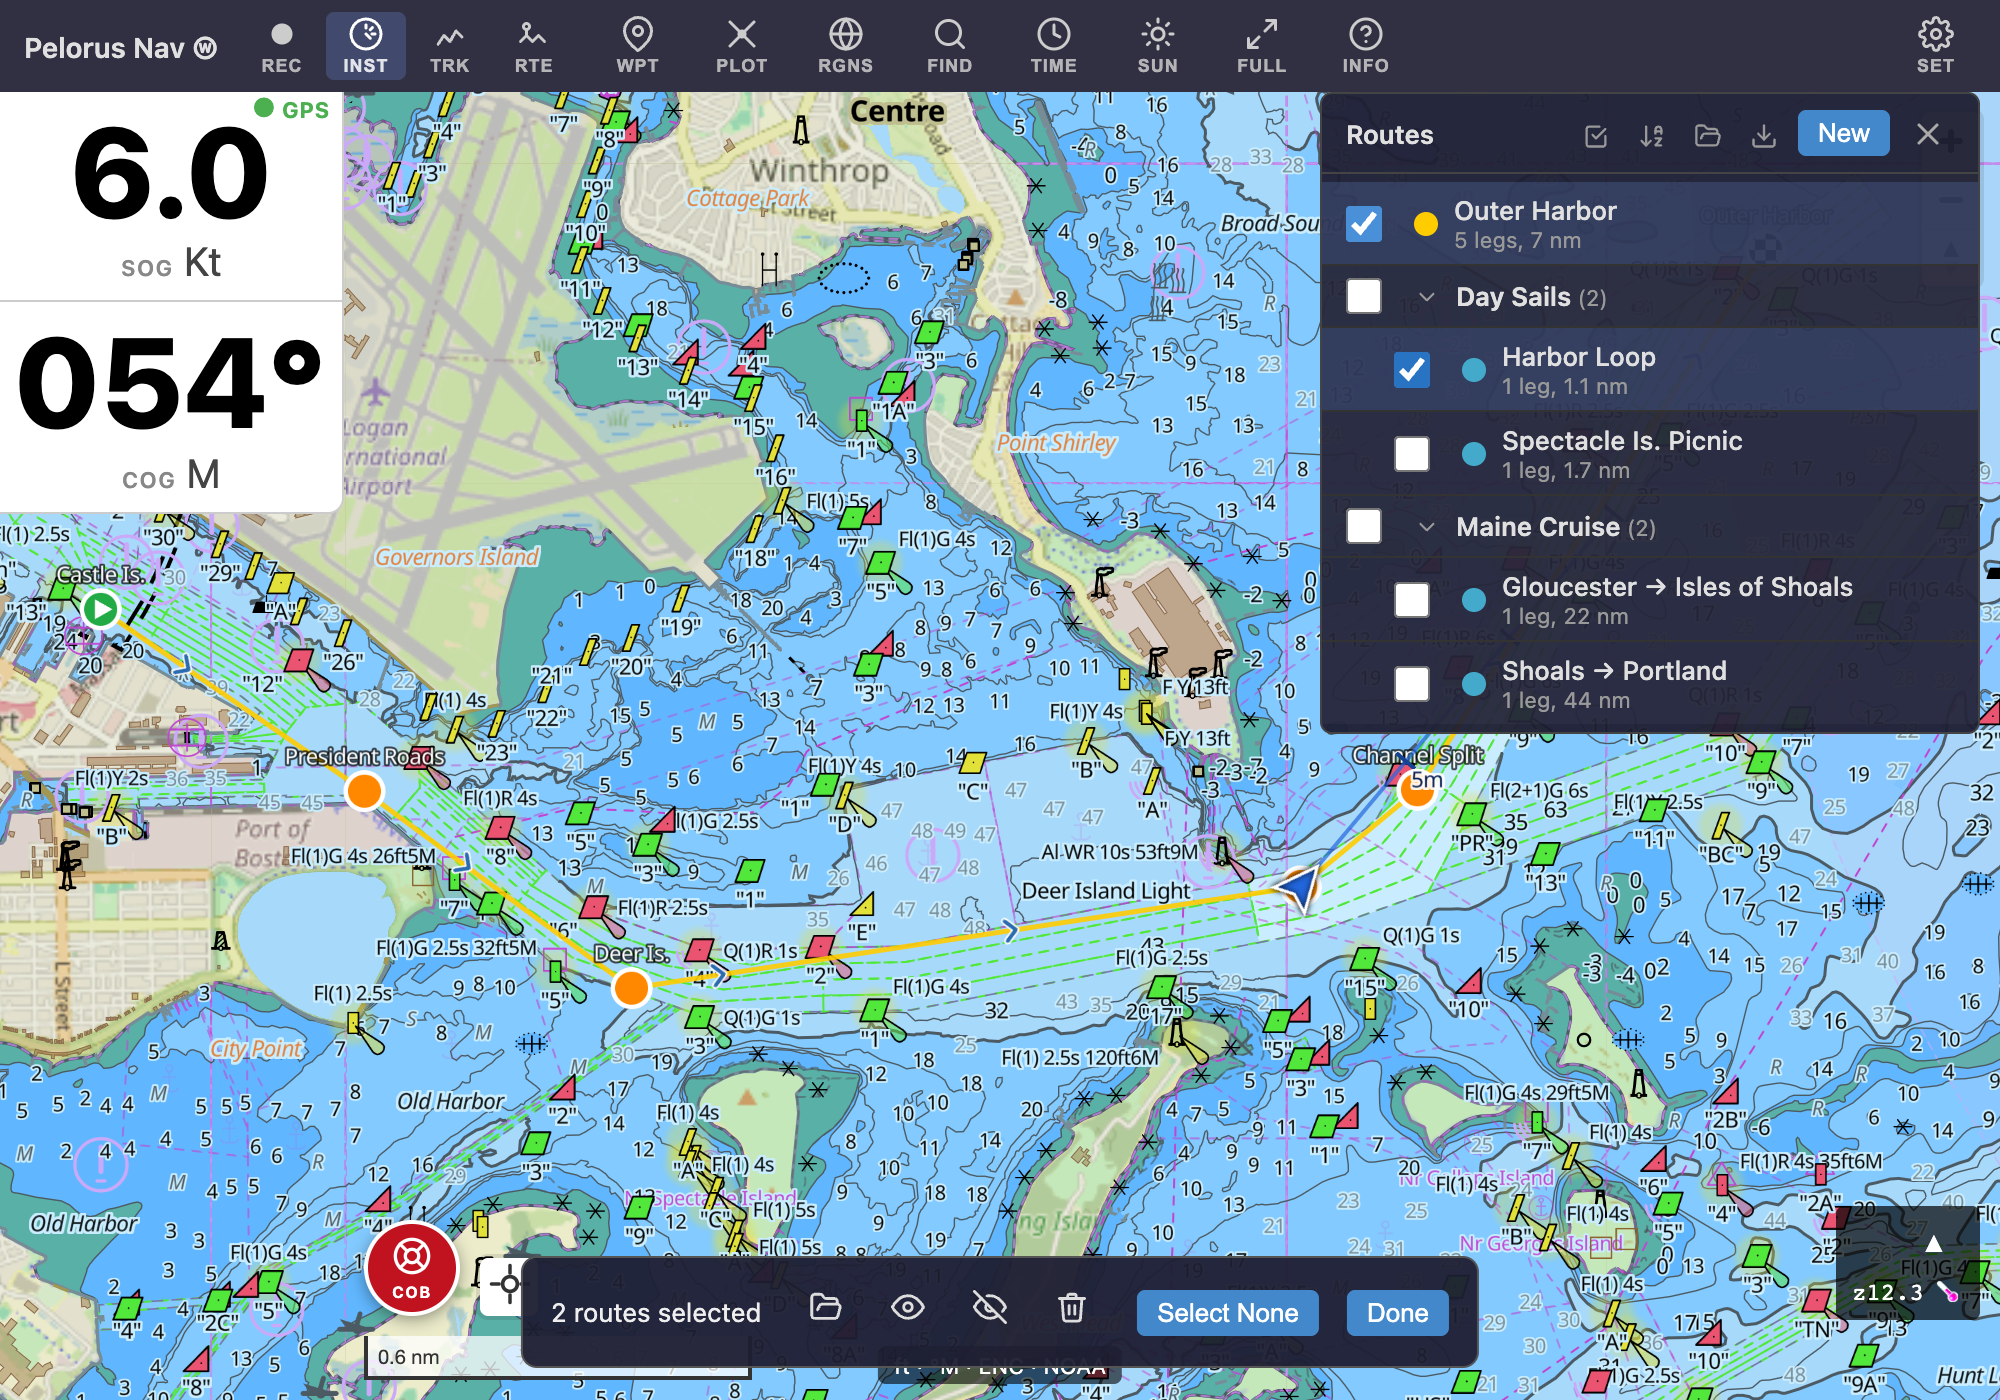
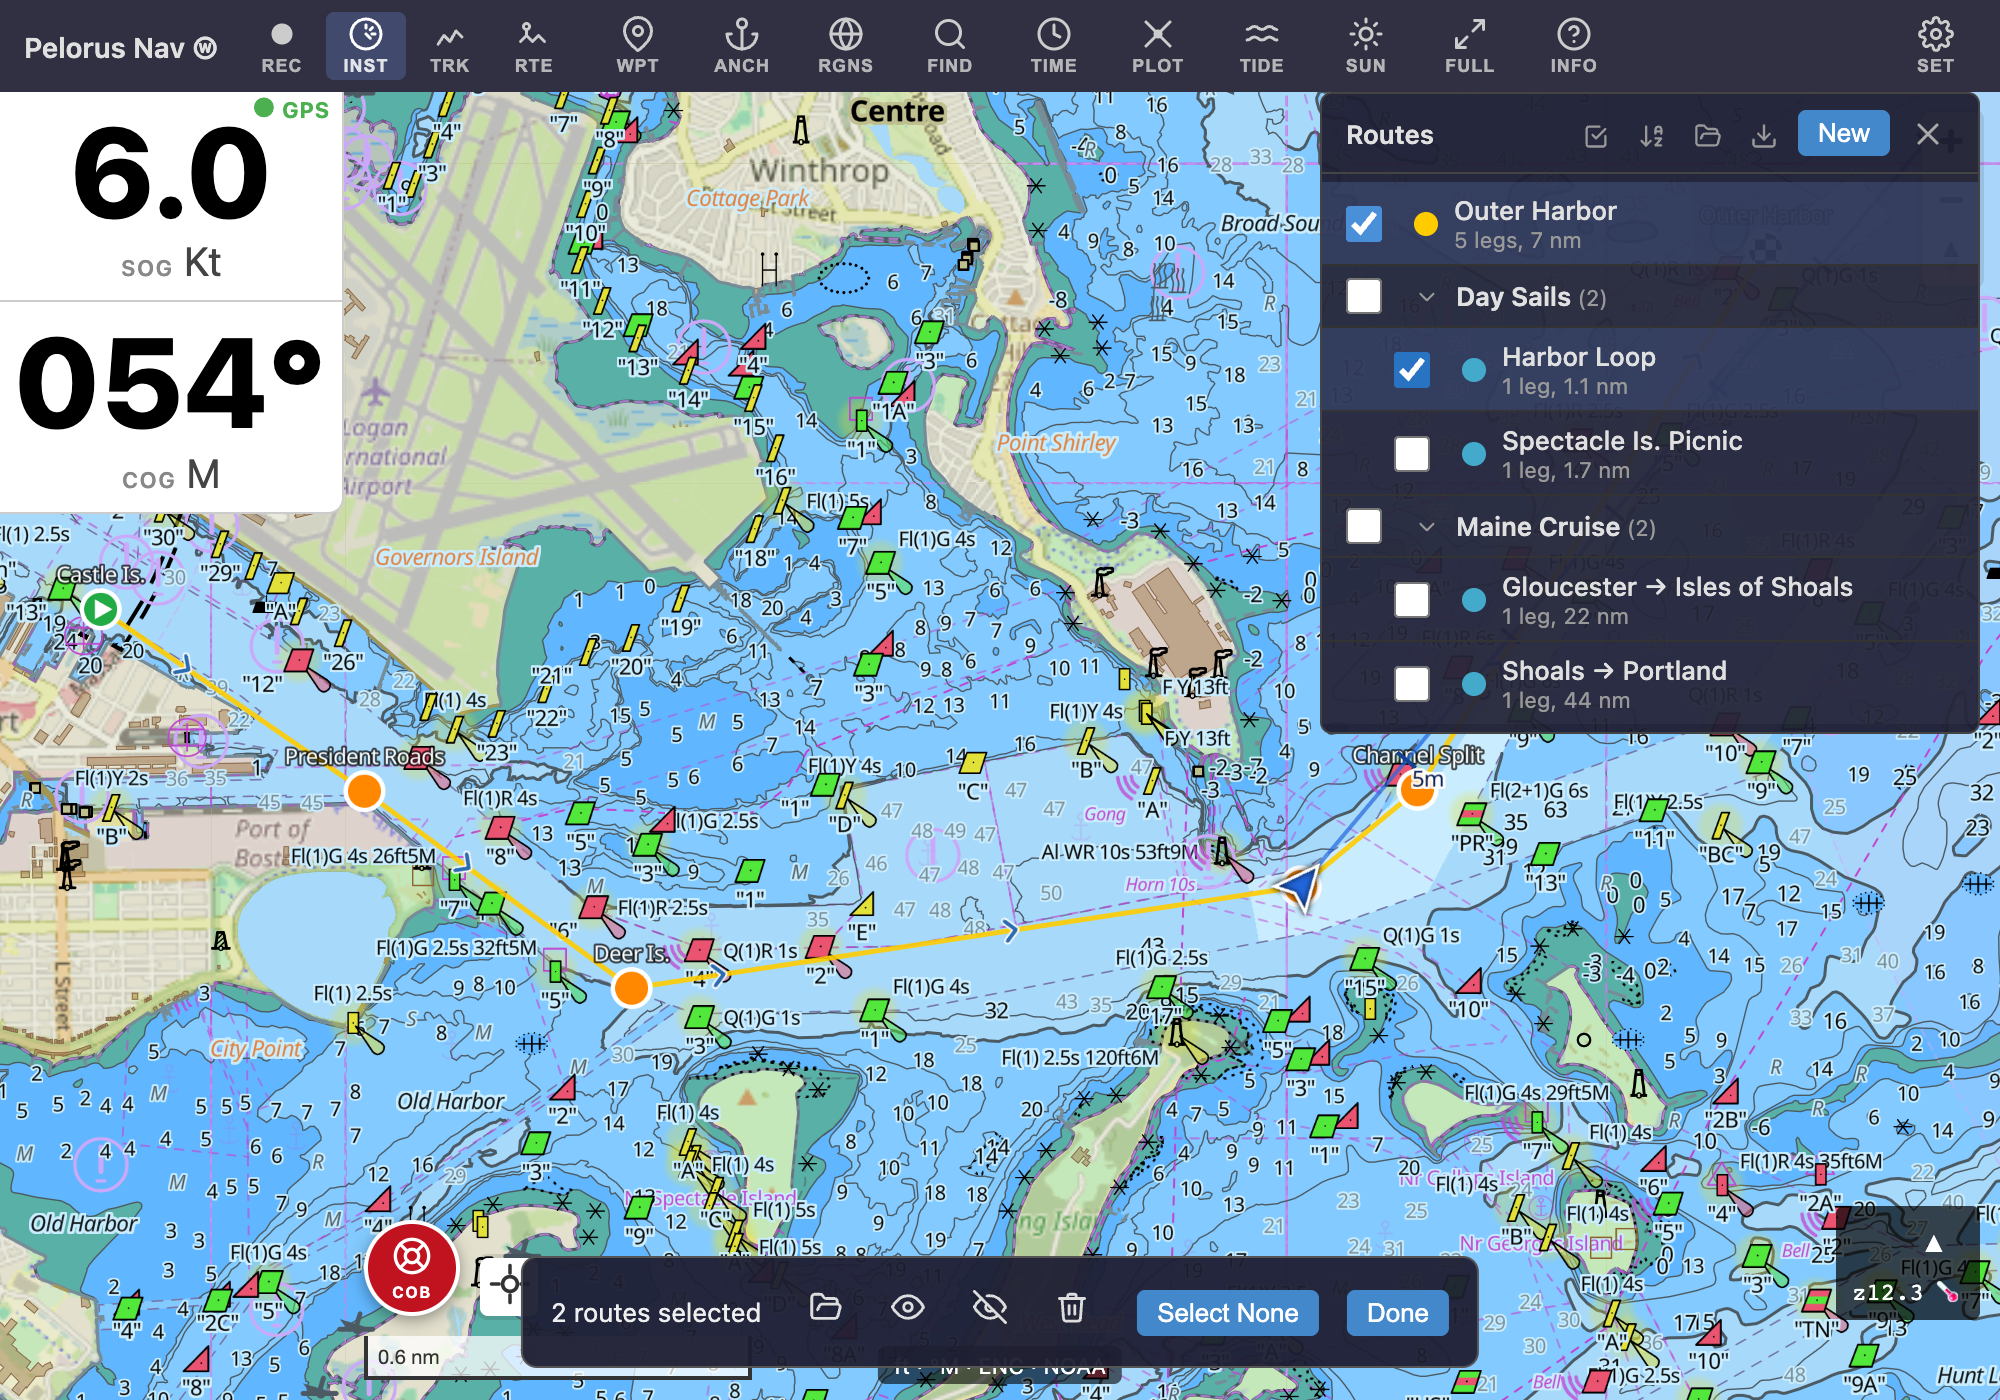
fix(ui): keep every bottom sheet and the top bar's last button clear of the nav bar
Checked on an Android 16 emulator with 3-button navigation, portrait
and landscape. The feature-info card's phone rule (bottom: 0) put its
prev/next footer under the bar; the track viewer, the short-screen
settings panel, the Sun popup and the collapsed menu dropdown had the
same gap. In landscape the top bar's gear sat under the side bar: the
overflow logic judged the row to fit by scrollWidth, which omits the
bar's right padding once content overflows, so a row ending exactly at
the edge passed. It now measures the rightmost laid-out button against
the bar's content box. Guide screenshots regenerated for the top-bar
order change.

diff --git a/src/ui/topbar-overflow.ts b/src/ui/topbar-overflow.ts
@@ -47,7 +47,7 @@ export function relayoutTopbar(
   hooks: TopbarOverflowHooks = {},
 ): void {
   const { topBar, actions, menu, hamburger } = els;
-  const fits = hooks.fits ?? (() => topBar.scrollWidth <= topBar.clientWidth);
+  const fits = hooks.fits ?? (() => rowFitsWithinPadding(topBar));
   // Key off the CSS breakpoint directly, not the hamburger's display — this
   // function now controls that display, so reading it back would feed on
   // itself.
@@ -157,4 +157,31 @@ export function initTopbarOverflow(
   });
 
   relayoutTopbar(els, promoted, hooks);
+}
+
+/**
+ * Whether the bar's visible row ends inside its right padding. scrollWidth
+ * is not enough: it omits the right padding once content overflows, so a
+ * row ending exactly at the bar's edge — the edge that a side navigation
+ * bar covers in landscape, which is what the padding keeps clear — passed
+ * as fitting. Measures the rightmost laid-out descendant instead; the menu
+ * is `display: contents` inline, so its children are what have boxes.
+ */
+function rowFitsWithinPadding(topBar: HTMLElement): boolean {
+  const bar = topBar.getBoundingClientRect();
+  const limit =
+    bar.right -
+    (Number.parseFloat(getComputedStyle(topBar).paddingRight) || 0) +
+    0.5;
+  let rightmost = bar.left;
+  const visit = (el: HTMLElement) => {
+    if (getComputedStyle(el).display === "contents") {
+      for (const child of el.children) visit(child as HTMLElement);
+      return;
+    }
+    const rect = el.getBoundingClientRect();
+    if (rect.width > 0) rightmost = Math.max(rightmost, rect.right);
+  };
+  for (const child of topBar.children) visit(child as HTMLElement);
+  return rightmost <= limit && topBar.scrollWidth <= topBar.clientWidth;
 }

diff --git a/src/style.css b/src/style.css
@@ -570,7 +570,7 @@ body {
 .sun-popup {
   position: fixed;
   top: calc(var(--topbar-bottom) + 6px);
-  right: 8px;
+  right: calc(8px + var(--safe-right));
   background: rgba(30, 30, 50, 0.95);
   border: 1px solid #555;
   border-radius: 6px;
@@ -2866,7 +2866,7 @@ body {
 @media (max-width: 480px) {
   .track-viewer-panel {
     width: calc(100vw - 12px);
-    bottom: 6px;
+    bottom: calc(6px + var(--safe-bottom));
     padding: 8px 10px;
     gap: 6px;
   }
@@ -2893,7 +2893,7 @@ body {
    the chart is already a scrubber — and everything tightens up. */
 @media (orientation: landscape) and (max-height: 500px) {
   .track-viewer-panel {
-    bottom: 6px;
+    bottom: calc(6px + var(--safe-bottom));
     padding: 6px 10px;
     gap: 4px;
   }
@@ -3885,7 +3885,7 @@ body {
   .feature-info-panel {
     width: 100%;
     max-width: 100%;
-    bottom: 0;
+    bottom: var(--safe-bottom);
     border-radius: 8px 8px 0 0;
   }
 }
@@ -4013,7 +4013,7 @@ body {
   display: none;
   position: absolute;
   top: 100%;
-  right: 0;
+  right: var(--safe-right);
   width: 220px;
   flex-direction: column;
   background: rgba(26, 26, 46, 0.95);
@@ -4104,7 +4104,7 @@ body {
 /* ── Landscape small screens ─────────────────────────────────────── */
 @media (max-height: 500px) {
   .settings-panel {
-    max-height: calc(100vh - 50px);
+    max-height: calc(100vh - 50px - var(--safe-bottom));
     overflow-y: auto;
   }
 }

diff --git a/tests/e2e/safe-area.spec.ts b/tests/e2e/safe-area.spec.ts
@@ -60,9 +60,23 @@ test("right-edge controls and the top bar clear a side navigation bar in landsca
     })
     .toBeLessThanOrEqual(780 - INSET);
 
-  // The top bar pads its content down by the top inset.
+  // The top bar pads its content down by the top inset…
   const paddingTop = await page
     .locator("#top-bar")
     .evaluate((el) => getComputedStyle(el).paddingTop);
   expect(paddingTop).toBe("10px");
+
+  // …and its rightmost button (the gear, or the hamburger once the row
+  // overflows) stays clear of a side navigation bar.
+  await page.setViewportSize({ width: 781, height: 360 });
+  await expect
+    .poll(async () => {
+      const boxes = await page
+        .locator("#top-bar button:visible")
+        .evaluateAll((els) =>
+          els.map((el) => el.getBoundingClientRect().right),
+        );
+      return Math.max(...boxes);
+    })
+    .toBeLessThanOrEqual(781 - INSET);
 });

diff --git a/CHANGELOG.md b/CHANGELOG.md
@@ -28,8 +28,10 @@ The format follows [Keep a Changelog](https://keepachangelog.com/).
 ### Changed
 - The Plot button moved later in the top bar (after Time), so on a phone
   it lives in the ☰ menu instead of taking one of the visible slots.
-- The bottom-centre chart readout ("ft · °M · ENC") now clears the
-  Android navigation bar too.
+- The bottom-centre chart readout ("ft · °M · ENC"), the feature-info
+  card's prev/next footer, the track viewer, the settings panel, the Sun
+  popup, the menu dropdown and the top bar's last button now all clear the
+  Android navigation bar, in portrait and in landscape.
 - Wind barbs: panning or zooming repaints the cached barbs at once but
   fetches new areas only after the chart has been still for ten seconds
   (a view with no barbs at all fetches immediately), and fetched wind is
